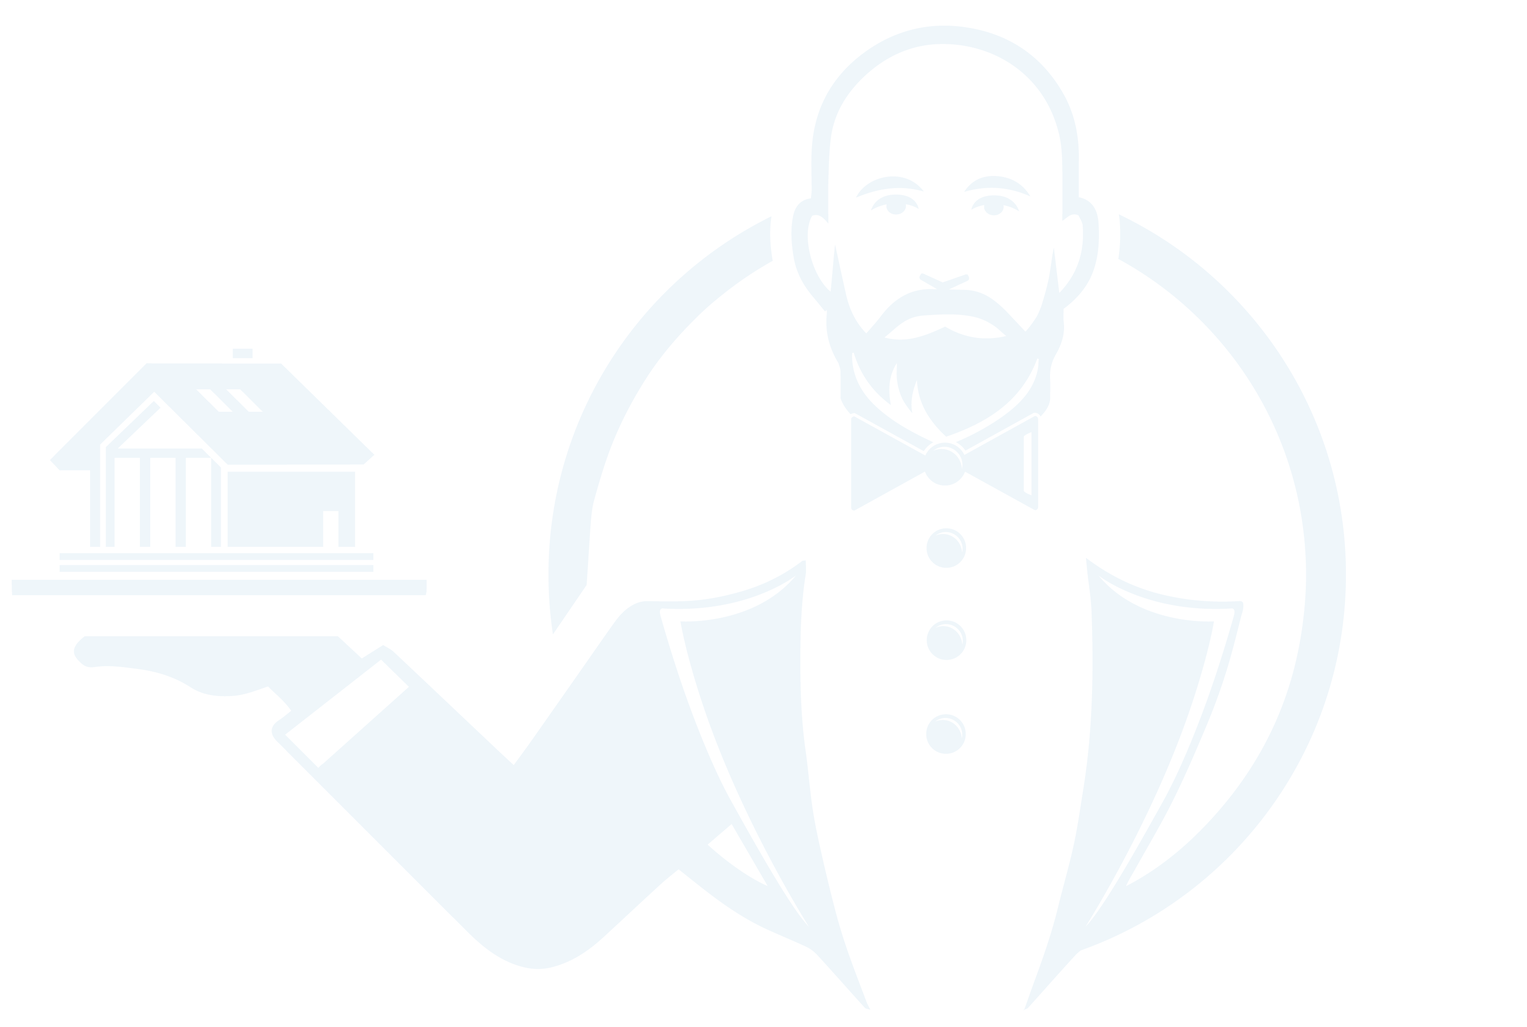
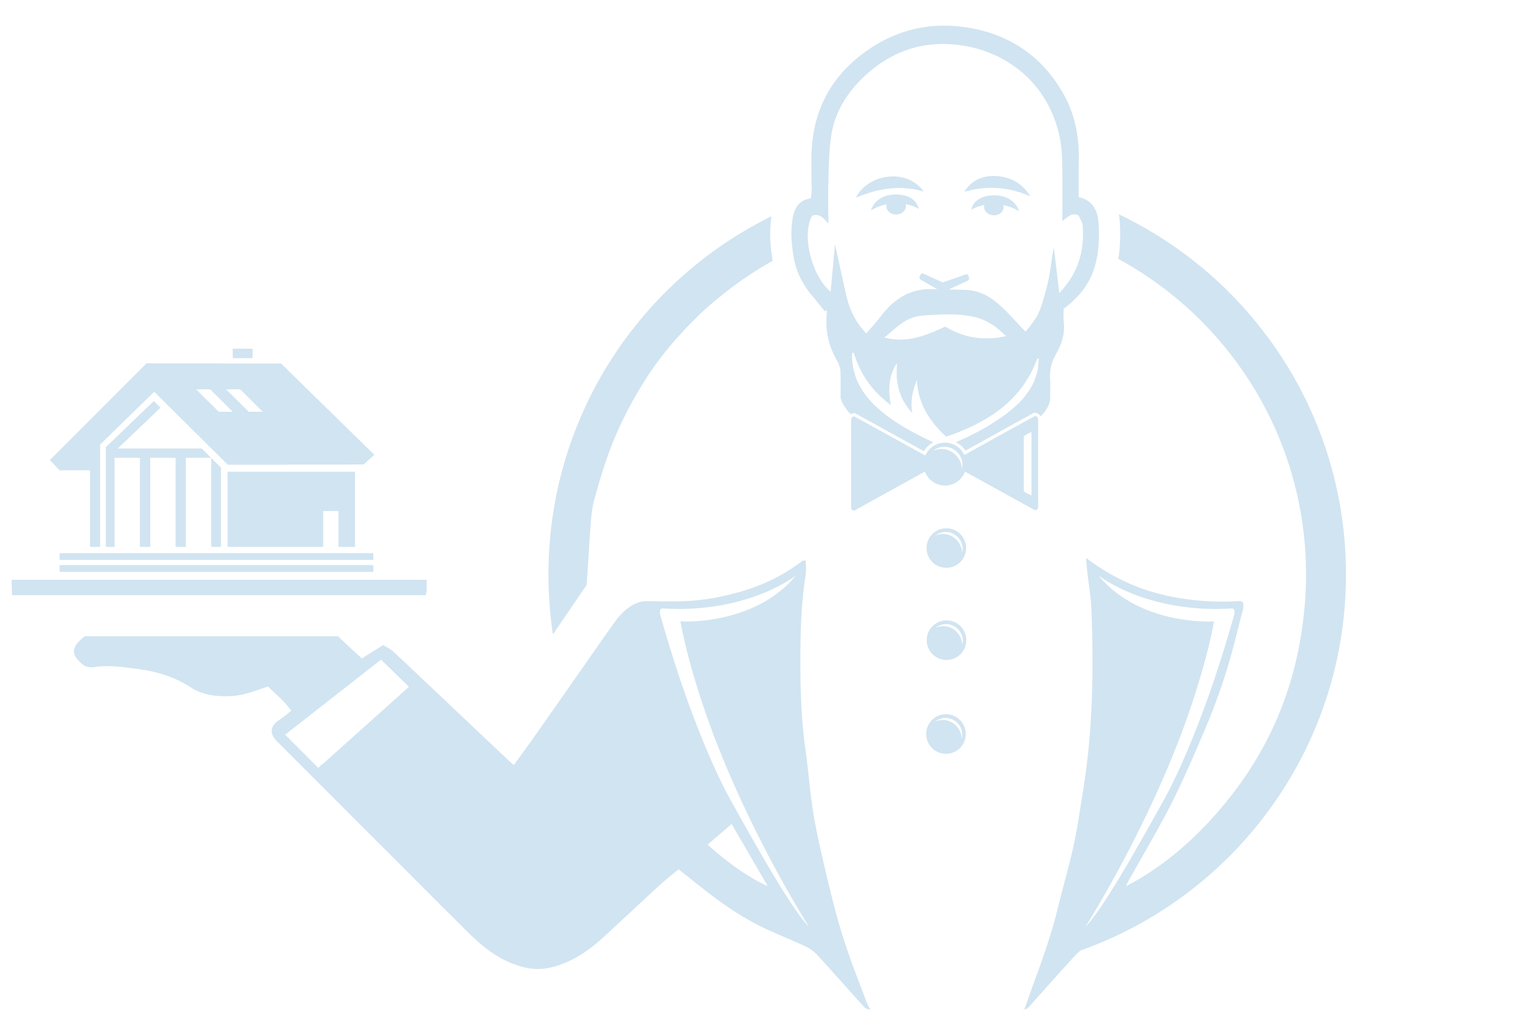
Fix nav wrap bug, redesign mascot watermark, add homepage engagement features
Bug fixes:
- Fix nav-links wrapping to two lines at common desktop widths: raise
  hamburger breakpoint 768px -> 1200px and tighten nav-links gap
  24px -> 12px so the wider wordmark logo no longer starves nav-links
  of space (root cause: nav-inner's fixed 1100px max-width left ~40px
  less room than the wordmark + full nav needed)
- Trim nav wordmark logo height 24px -> 21px for extra margin

Mascot watermark redesign:
- Replace the oversized, right-bleeding, homepage-only hero watermark
  with a small (170px), left-aligned watermark applied via a single
  shared CSS rule on .hero and .page-hero, so it now appears
  consistently on every page automatically
- Regenerate the watermark asset at 22% opacity (was 8%) since the
  much smaller footprint needed more presence to stay visible

Homepage engagement features:
- Animated stat counters (4+ Years Licensed, 5.0 Rating, 2 Markets)
  that count up on scroll into view
- Bouncing scroll-cue arrow at the base of the hero
- Rotating eyebrow line above the headline cycling through value props
- Subtle mouse-follow tilt on the hero photo (skipped on touch)
- Clickable "Choose Your Area" explorer (San Tan Valley / Florence)
  linking straight to their area pages, using the same verified price
  ranges and community names already published on areas.html

Lead popup tuning:
- Push back scroll-depth trigger 55% -> 75% and time-on-page fallback
  45s -> 90s so "Before You Go" waits longer before appearing;
[…]

diff --git a/index.html b/index.html
@@ -195,7 +195,7 @@ src="https://www.facebook.com/tr?id=613631230446097&ev=PageView&noscript=1"
 <nav class="nav" id="nav">
   <div class="nav-inner">
     <a href="index.html" class="nav-brand" style="display:flex;align-items:center;gap:12px;text-decoration:none;">
-      <img src="images/butler-wordmark-white.png" alt="The Butler Realty" style="height:24px;width:auto;">
+      <img src="images/butler-wordmark-white.png" alt="The Butler Realty" style="height:21px;width:auto;">
       <img src="images/exp-white-clean.png" alt="eXp Realty" style="height:28px;width:auto;opacity:0.9;">
     </a>
     <div class="hamburger" onclick="document.querySelector('.nav-links').classList.toggle('open')">
@@ -220,9 +220,9 @@ src="https://www.facebook.com/tr?id=613631230446097&ev=PageView&noscript=1"
 <main>
 
 <section class="hero">
-  <img src="images/butler-icon-watermark.png" alt="" aria-hidden="true" class="hero-mascot-watermark">
   <div class="hero-inner">
     <div class="hero-content">
+      <div class="hero-rotator" id="heroRotator">Zero Pressure.</div>
       <h1>Not Just Your Agent,<br><em>Your Advocate</em></h1>
       <p>San Tan Valley &amp; Florence REALTOR&reg; &mdash; I specialize in these markets because I know them cold. Honest guidance, zero pressure, straight answers. Your goals, your timeline, your call.</p>
       <div class="hero-btns">
@@ -234,10 +234,55 @@ src="https://www.facebook.com/tr?id=613631230446097&ev=PageView&noscript=1"
       <img src="images/brian-butler.jpg" alt="Brian Butler REALTOR - Arizona Real Estate Agent">
     </div>
   </div>
+  <button type="button" class="scroll-cue" id="scrollCue" aria-label="Scroll down">
+    <svg width="26" height="26" viewBox="0 0 24 24" fill="none" stroke="currentColor" stroke-width="2" stroke-linecap="round" stroke-linejoin="round"><path d="M6 9l6 6 6-6"/></svg>
+  </button>
 </section>
 
+<section class="stats-bar">
+  <div class="container">
+    <div class="stats-grid">
+      <div class="stat-item">
+        <div class="stat-number" data-target="4" data-suffix="+">0</div>
+        <div class="stat-label">Years Licensed in Arizona</div>
+      </div>
+      <div class="stat-item">
+        <div class="stat-number" data-target="5" data-decimal-target="5.0" data-suffix="&#9733;">0</div>
+        <div class="stat-label">Average Client Rating</div>
+      </div>
+      <div class="stat-item">
+        <div class="stat-number" data-target="2" data-suffix="">0</div>
+        <div class="stat-label">Markets Mastered</div>
+      </div>
+    </div>
+  </div>
+</section>
 
-<section class="section section-alt" style="padding:48px 0;">
+<section class="section section-alt">
+  <div class="container">
+    <div class="section-header">
+      <div class="section-label">Where I Work</div>
+      <h2 class="section-title">Choose Your Area</h2>
+      <p class="section-subtitle">Two markets, zero guesswork. Click the one you're interested in to see prices, communities, and what to expect.</p>
+    </div>
+    <div class="area-explorer">
+      <a href="areas/san-tan-valley.html" class="area-explorer-card">
+        <h3>San Tan Valley</h3>
+        <div class="area-explorer-tagline">"Space, Value, and Room to Grow"</div>
+        <div class="area-explorer-price">$300K&ndash;$450K+ &bull; Pecan Creek, Johnson Ranch</div>
+        <div class="area-explorer-cta">Explore San Tan Valley <svg width="16" height="16" viewBox="0 0 24 24" fill="none" stroke="currentColor" stroke-width="2" stroke-linecap="round" stroke-linejoin="round"><path d="M5 12h14M13 6l6 6-6 6"/></svg></div>
+      </a>
+      <a href="areas/florence.html" class="area-explorer-card">
+        <h3>Florence</h3>
+        <div class="area-explorer-tagline">"Maximum Space, Small-Town Arizona"</div>
+        <div class="area-explorer-price">$220K&ndash;$380K+ &bull; Residential &amp; land parcels</div>
+        <div class="area-explorer-cta">Explore Florence <svg width="16" height="16" viewBox="0 0 24 24" fill="none" stroke="currentColor" stroke-width="2" stroke-linecap="round" stroke-linejoin="round"><path d="M5 12h14M13 6l6 6-6 6"/></svg></div>
+      </a>
+    </div>
+  </div>
+</section>
+
+<section class="section" style="padding:48px 0;">
   <div class="container">
     <div class="section-header" style="margin-bottom:24px;">
       <div class="section-label">Start Your Search</div>
@@ -478,6 +523,81 @@ document.querySelectorAll('.nav-links a').forEach(a=>{if(a.getAttribute('href')=
   function next(){ goTo((current + 1) % slides.length); }
   function resetTimer(){ clearInterval(timer); timer = setInterval(next, 5500); }
   resetTimer();
+})();
+</script>
+
+<script>
+(function(){
+  /* ---- Hero rotator ---- */
+  var phrases = ['Zero Pressure.', 'Straight Answers.', 'Your Timeline.', 'Your Goals, Your Call.'];
+  var rotatorEl = document.getElementById('heroRotator');
+  if (rotatorEl) {
+    var idx = 0;
+    setInterval(function(){
+      rotatorEl.style.opacity = 0;
+      setTimeout(function(){
+        idx = (idx + 1) % phrases.length;
+        rotatorEl.textContent = phrases[idx];
+        rotatorEl.style.opacity = 1;
+      }, 300);
+    }, 2800);
+  }
+
+  /* ---- Scroll cue ---- */
+  var scrollCue = document.getElementById('scrollCue');
+  if (scrollCue) {
+    scrollCue.addEventListener('click', function(){
+      var statsBar = document.querySelector('.stats-bar');
+      if (statsBar) statsBar.scrollIntoView({ behavior: 'smooth' });
+    });
+  }
+
+  /* ---- Hero photo mouse-tilt (skip on touch devices) ---- */
+  var hero = document.querySelector('.hero');
+  var heroPhoto = document.querySelector('.hero-photo img');
+  if (hero && heroPhoto && !window.matchMedia('(pointer: coarse)').matches) {
+    hero.addEventListener('mousemove', function(e){
+      var rect = hero.getBoundingClientRect();
+      var x = (e.clientX - rect.left) / rect.width - 0.5;
+      var y = (e.clientY - rect.top) / rect.height - 0.5;
+      heroPhoto.style.transform = 'perspective(600px) rotateY(' + (x * 8).toFixed(2) + 'deg) rotateX(' + (-y * 8).toFixed(2) + 'deg)';
+    });
+    hero.addEventListener('mouseleave', function(){
+      heroPhoto.style.transform = 'perspective(600px) rotateY(0deg) rotateX(0deg)';
+    });
+  }
+
+  /* ---- Animated stat counters (run once, when scrolled into view) ---- */
+  var statEls = document.querySelectorAll('.stat-number');
+  if (statEls.length && 'IntersectionObserver' in window) {
+    var animateStat = function(el){
+      var target = parseFloat(el.getAttribute('data-target')) || 0;
+      var decimalTarget = el.getAttribute('data-decimal-target');
+      var suffix = el.getAttribute('data-suffix') || '';
+      var duration = 1200;
+      var start = null;
+      function step(ts){
+        if (!start) start = ts;
+        var progress = Math.min((ts - start) / duration, 1);
+        var eased = 1 - Math.pow(1 - progress, 3);
+        var current = decimalTarget
+          ? (eased * parseFloat(decimalTarget)).toFixed(1)
+          : Math.round(eased * target);
+        el.textContent = current + suffix;
+        if (progress < 1) requestAnimationFrame(step);
+      }
+      requestAnimationFrame(step);
+    };
+    var statObserver = new IntersectionObserver(function(entries){
+      entries.forEach(function(entry){
+        if (entry.isIntersecting) {
+          animateStat(entry.target);
+          statObserver.unobserve(entry.target);
+        }
+      });
+    }, { threshold: 0.5 });
+    statEls.forEach(function(el){ statObserver.observe(el); });
+  }
 })();
 </script>
 

diff --git a/styles.css b/styles.css
@@ -31,14 +31,14 @@ img{max-width:100%;height:auto;}
 .nav-inner{max-width:1100px;margin:0 auto;padding:0 28px;display:flex;align-items:center;justify-content:space-between;height:64px;}
 .nav-brand{font-family:var(--font-display);font-size:1.15rem;font-weight:700;color:var(--white);letter-spacing:0.01em;}
 .nav-brand span{color:var(--accent-light);font-weight:400;font-size:0.8rem;display:block;margin-top:-2px;}
-.nav-links{display:flex;gap:24px;align-items:center;list-style:none;}
+.nav-links{display:flex;gap:12px;align-items:center;list-style:none;}
 .nav-links a{color:rgba(255,255,255,0.8);font-size:0.85rem;font-weight:500;transition:color .2s;text-decoration:none;}
 .nav-links a:hover,.nav-links a.active{color:var(--white);}
 .nav-cta{background:var(--accent);color:var(--white)!important;padding:8px 18px;border-radius:8px;font-weight:600;font-size:0.82rem!important;}
 .nav-cta:hover{background:var(--accent-light);}
 .hamburger{display:none;flex-direction:column;gap:5px;cursor:pointer;padding:4px;}
 .hamburger span{width:24px;height:2px;background:var(--white);transition:all .3s;}
-@media(max-width:768px){
+@media(max-width:1200px){
   .nav-links{display:none;position:absolute;top:64px;left:0;right:0;background:var(--primary);flex-direction:column;padding:20px 28px;gap:16px;border-bottom:2px solid var(--accent);}
   .nav-links.open{display:flex;}
   .hamburger{display:flex;}
@@ -47,8 +47,6 @@ img{max-width:100%;height:auto;}
 /* HERO */
 .hero{position:relative;min-height:85vh;display:flex;align-items:center;overflow:hidden;background:linear-gradient(135deg,var(--primary) 0%,var(--primary-dark) 40%,#0d2f45 100%);padding-top:64px;}
 .hero::before{content:'';position:absolute;inset:0;background:radial-gradient(ellipse at 20% 50%,rgba(46,134,193,0.2) 0%,transparent 60%),radial-gradient(ellipse at 80% 20%,rgba(93,173,226,0.1) 0%,transparent 50%);}
-.hero-mascot-watermark{position:absolute;right:-60px;top:-30px;height:900px;max-width:none;width:auto;z-index:1;pointer-events:none;}
-@media(max-width:768px){.hero-mascot-watermark{display:none;}}
 .hero-inner{position:relative;z-index:2;width:100%;max-width:1100px;margin:0 auto;padding:80px 28px 60px;display:grid;grid-template-columns:1.2fr 0.8fr;gap:60px;align-items:center;}
 .hero-content h1{font-family:var(--font-display);font-size:clamp(2.2rem,4vw,3.2rem);font-weight:700;color:var(--white);line-height:1.15;margin-bottom:16px;}
 .hero-content h1 em{font-style:italic;color:var(--accent-light);}
@@ -148,9 +146,13 @@ img{max-width:100%;height:auto;}
 @media(max-width:768px){.footer-inner{grid-template-columns:1fr;gap:28px;text-align:center;}}
 
 /* PAGE HERO (internal pages) */
-.page-hero{background:var(--primary);padding:120px 0 60px;text-align:center;}
-.page-hero h1{font-family:var(--font-display);font-size:clamp(1.8rem,3.5vw,2.6rem);color:var(--white);margin-bottom:10px;}
-.page-hero p{font-size:1.05rem;color:rgba(255,255,255,0.7);max-width:600px;margin:0 auto;}
+.page-hero{position:relative;overflow:hidden;background:var(--primary);padding:120px 0 60px;text-align:center;}
+.page-hero h1{position:relative;z-index:1;font-family:var(--font-display);font-size:clamp(1.8rem,3.5vw,2.6rem);color:var(--white);margin-bottom:10px;}
+.page-hero p{position:relative;z-index:1;font-size:1.05rem;color:rgba(255,255,255,0.7);max-width:600px;margin:0 auto;}
+
+/* MASCOT WATERMARK -- small, consistent, left-aligned on every hero/page-hero */
+.hero::after,.page-hero::after{content:'';position:absolute;left:-20px;top:50%;transform:translateY(-50%);width:170px;height:170px;background-image:url('/images/butler-icon-watermark.png');background-size:contain;background-repeat:no-repeat;background-position:left center;z-index:0;pointer-events:none;}
+@media(max-width:640px){.hero::after,.page-hero::after{width:110px;height:110px;}}
 
 /* CHECKLIST */
 .check-list{list-style:none;}
@@ -216,3 +218,35 @@ img{max-width:100%;height:auto;}
 .download-card,.area-card,.review-card{transition:transform .25s ease,box-shadow .25s ease;}
 .download-card:hover{transform:translateY(-4px);box-shadow:0 10px 28px rgba(0,0,0,0.1);}
 .review-card:hover{transform:translateY(-3px);box-shadow:0 10px 28px rgba(0,0,0,0.1);}
+
+/* ==================== HOMEPAGE: HERO ROTATOR ==================== */
+.hero-rotator{font-size:0.9rem;font-weight:700;color:var(--accent-light);text-transform:uppercase;letter-spacing:0.09em;margin-bottom:10px;min-height:1.3em;opacity:1;transition:opacity .3s ease;}
+
+/* ==================== HOMEPAGE: HERO PHOTO TILT ==================== */
+.hero-photo img{transition:transform .15s ease-out;}
+
+/* ==================== HOMEPAGE: SCROLL CUE ==================== */
+.scroll-cue{position:absolute;bottom:22px;left:50%;transform:translateX(-50%);z-index:2;color:rgba(255,255,255,0.55);cursor:pointer;background:none;border:none;padding:8px;animation:scrollBounce 2s ease-in-out infinite;transition:color .2s;}
+.scroll-cue:hover{color:rgba(255,255,255,0.9);}
+@keyframes scrollBounce{0%,100%{transform:translateX(-50%) translateY(0);}50%{transform:translateX(-50%) translateY(8px);}}
+@media(max-width:768px){.scroll-cue{display:none;}}
+
+/* ==================== HOMEPAGE: STAT COUNTERS ==================== */
+.stats-bar{background:var(--primary-dark);padding:40px 0;}
+.stats-grid{display:flex;justify-content:center;gap:80px;flex-wrap:wrap;}
+.stat-item{text-align:center;}
+.stat-number{font-family:var(--font-display);font-size:clamp(2rem,4vw,2.8rem);font-weight:700;color:var(--white);}
+.stat-label{font-size:0.8rem;color:rgba(255,255,255,0.65);text-transform:uppercase;letter-spacing:0.07em;margin-top:6px;}
+@media(max-width:600px){.stats-grid{gap:40px;}}
+
+/* ==================== HOMEPAGE: AREA EXPLORER ==================== */
+.area-explorer{display:grid;grid-template-columns:1fr 1fr;gap:24px;}
+@media(max-width:768px){.area-explorer{grid-template-columns:1fr;}}
+.area-explorer-card{position:relative;display:block;text-decoration:none;background:var(--primary);border-radius:16px;padding:40px 32px;overflow:hidden;transition:transform .25s ease,box-shadow .25s ease;min-height:200px;}
+.area-explorer-card:hover{transform:translateY(-6px);box-shadow:0 16px 40px rgba(0,0,0,0.18);}
+.area-explorer-card h3{font-family:var(--font-display);font-size:1.6rem;color:var(--white);margin-bottom:8px;}
+.area-explorer-card .area-explorer-tagline{color:var(--accent-light);font-size:0.9rem;font-style:italic;margin-bottom:16px;}
+.area-explorer-card .area-explorer-price{color:rgba(255,255,255,0.75);font-size:0.85rem;margin-bottom:22px;}
+.area-explorer-card .area-explorer-cta{color:var(--white);font-weight:700;font-size:0.9rem;display:inline-flex;align-items:center;gap:6px;}
+.area-explorer-card .area-explorer-cta svg{transition:transform .2s;}
+.area-explorer-card:hover .area-explorer-cta svg{transform:translateX(4px);}

diff --git a/js/site-enhancements.js b/js/site-enhancements.js
@@ -159,20 +159,20 @@
       if (!e.relatedTarget && e.clientY < 8) fireOnce('exit-intent')();
     });
 
-    // All devices: scroll depth past ~55%
+    // All devices: scroll depth past ~75%
     window.addEventListener(
       'scroll',
       function () {
         var docHeight = document.body.scrollHeight - window.innerHeight;
         if (docHeight <= 0) return;
         var pct = (window.scrollY / docHeight) * 100;
-        if (pct > 55) fireOnce('scroll-depth')();
+        if (pct > 75) fireOnce('scroll-depth')();
       },
       { passive: true }
     );
 
     // Fallback: time on page
-    setTimeout(fireOnce('time-on-page'), 45000);
+    setTimeout(fireOnce('time-on-page'), 90000);
   }
 
   /* ==================== GATED RESOURCE DOWNLOADS ====================

diff --git a/community-news/san-tan-valley/18-acre-arizona-farms-road-site-sells-2-7-million.html b/community-news/san-tan-valley/18-acre-arizona-farms-road-site-sells-2-7-million.html
@@ -115,7 +115,7 @@ src="https://www.facebook.com/tr?id=613631230446097&ev=PageView&noscript=1"
 <nav class="nav" id="nav">
   <div class="nav-inner">
     <a href="../../index.html" class="nav-brand" style="display:flex;align-items:center;gap:12px;text-decoration:none;">
-      <img src="../../images/butler-wordmark-white.png" alt="The Butler Realty" style="height:24px;width:auto;">
+      <img src="../../images/butler-wordmark-white.png" alt="The Butler Realty" style="height:21px;width:auto;">
       <img src="../../images/exp-white-clean.png" alt="eXp Realty" style="height:28px;width:auto;opacity:0.9;">
     </a>
     <div class="hamburger" onclick="document.querySelector('.nav-links').classList.toggle('open')">

diff --git a/community-news/san-tan-valley/cac-expands-nursing-program-san-tan-valley-campus.html b/community-news/san-tan-valley/cac-expands-nursing-program-san-tan-valley-campus.html
@@ -115,7 +115,7 @@ src="https://www.facebook.com/tr?id=613631230446097&ev=PageView&noscript=1"
 <nav class="nav" id="nav">
   <div class="nav-inner">
     <a href="../../index.html" class="nav-brand" style="display:flex;align-items:center;gap:12px;text-decoration:none;">
-      <img src="../../images/butler-wordmark-white.png" alt="The Butler Realty" style="height:24px;width:auto;">
+      <img src="../../images/butler-wordmark-white.png" alt="The Butler Realty" style="height:21px;width:auto;">
       <img src="../../images/exp-white-clean.png" alt="eXp Realty" style="height:28px;width:auto;opacity:0.9;">
     </a>
     <div class="hamburger" onclick="document.querySelector('.nav-links').classList.toggle('open')">

diff --git a/community-news/san-tan-valley/gantzel-road-annexation-hearing.html b/community-news/san-tan-valley/gantzel-road-annexation-hearing.html
@@ -115,7 +115,7 @@ src="https://www.facebook.com/tr?id=613631230446097&ev=PageView&noscript=1"
 <nav class="nav" id="nav">
   <div class="nav-inner">
     <a href="../../index.html" class="nav-brand" style="display:flex;align-items:center;gap:12px;text-decoration:none;">
-      <img src="../../images/butler-wordmark-white.png" alt="The Butler Realty" style="height:24px;width:auto;">
+      <img src="../../images/butler-wordmark-white.png" alt="The Butler Realty" style="height:21px;width:auto;">
       <img src="../../images/exp-white-clean.png" alt="eXp Realty" style="height:28px;width:auto;opacity:0.9;">
     </a>
     <div class="hamburger" onclick="document.querySelector('.nav-links').classList.toggle('open')">

diff --git a/community-news/san-tan-valley/ironwood-and-ranch-mixed-use-project.html b/community-news/san-tan-valley/ironwood-and-ranch-mixed-use-project.html
@@ -115,7 +115,7 @@ src="https://www.facebook.com/tr?id=613631230446097&ev=PageView&noscript=1"
 <nav class="nav" id="nav">
   <div class="nav-inner">
     <a href="../../index.html" class="nav-brand" style="display:flex;align-items:center;gap:12px;text-decoration:none;">
-      <img src="../../images/butler-wordmark-white.png" alt="The Butler Realty" style="height:24px;width:auto;">
+      <img src="../../images/butler-wordmark-white.png" alt="The Butler Realty" style="height:21px;width:auto;">
       <img src="../../images/exp-white-clean.png" alt="eXp Realty" style="height:28px;width:auto;opacity:0.9;">
     </a>
     <div class="hamburger" onclick="document.querySelector('.nav-links').classList.toggle('open')">

diff --git a/community-news/san-tan-valley/july-15-town-council-recap.html b/community-news/san-tan-valley/july-15-town-council-recap.html
@@ -115,7 +115,7 @@ src="https://www.facebook.com/tr?id=613631230446097&ev=PageView&noscript=1"
 <nav class="nav" id="nav">
   <div class="nav-inner">
     <a href="../../index.html" class="nav-brand" style="display:flex;align-items:center;gap:12px;text-decoration:none;">
-      <img src="../../images/butler-wordmark-white.png" alt="The Butler Realty" style="height:24px;width:auto;">
+      <img src="../../images/butler-wordmark-white.png" alt="The Butler Realty" style="height:21px;width:auto;">
       <img src="../../images/exp-white-clean.png" alt="eXp Realty" style="height:28px;width:auto;opacity:0.9;">
     </a>
     <div class="hamburger" onclick="document.querySelector('.nav-links').classList.toggle('open')">

diff --git a/community-news/san-tan-valley/san-tan-valley-incorporation.html b/community-news/san-tan-valley/san-tan-valley-incorporation.html
@@ -115,7 +115,7 @@ src="https://www.facebook.com/tr?id=613631230446097&ev=PageView&noscript=1"
 <nav class="nav" id="nav">
   <div class="nav-inner">
     <a href="../../index.html" class="nav-brand" style="display:flex;align-items:center;gap:12px;text-decoration:none;">
-      <img src="../../images/butler-wordmark-white.png" alt="The Butler Realty" style="height:24px;width:auto;">
+      <img src="../../images/butler-wordmark-white.png" alt="The Butler Realty" style="height:21px;width:auto;">
       <img src="../../images/exp-white-clean.png" alt="eXp Realty" style="height:28px;width:auto;opacity:0.9;">
     </a>
     <div class="hamburger" onclick="document.querySelector('.nav-links').classList.toggle('open')">

diff --git a/community-news/san-tan-valley/san-tan-valley-pinal-county-economic-development.html b/community-news/san-tan-valley/san-tan-valley-pinal-county-economic-development.html
@@ -115,7 +115,7 @@ src="https://www.facebook.com/tr?id=613631230446097&ev=PageView&noscript=1"
 <nav class="nav" id="nav">
   <div class="nav-inner">
     <a href="../../index.html" class="nav-brand" style="display:flex;align-items:center;gap:12px;text-decoration:none;">
-      <img src="../../images/butler-wordmark-white.png" alt="The Butler Realty" style="height:24px;width:auto;">
+      <img src="../../images/butler-wordmark-white.png" alt="The Butler Realty" style="height:21px;width:auto;">
       <img src="../../images/exp-white-clean.png" alt="eXp Realty" style="height:28px;width:auto;opacity:0.9;">
     </a>
     <div class="hamburger" onclick="document.querySelector('.nav-links').classList.toggle('open')">

diff --git a/community-news/san-tan-valley/town-council-sets-future-leader-pay-impact-fees.html b/community-news/san-tan-valley/town-council-sets-future-leader-pay-impact-fees.html
@@ -115,7 +115,7 @@ src="https://www.facebook.com/tr?id=613631230446097&ev=PageView&noscript=1"
 <nav class="nav" id="nav">
   <div class="nav-inner">
     <a href="../../index.html" class="nav-brand" style="display:flex;align-items:center;gap:12px;text-decoration:none;">
-      <img src="../../images/butler-wordmark-white.png" alt="The Butler Realty" style="height:24px;width:auto;">
+      <img src="../../images/butler-wordmark-white.png" alt="The Butler Realty" style="height:21px;width:auto;">
       <img src="../../images/exp-white-clean.png" alt="eXp Realty" style="height:28px;width:auto;opacity:0.9;">
     </a>
     <div class="hamburger" onclick="document.querySelector('.nav-links').classList.toggle('open')">

diff --git a/areas/florence.html b/areas/florence.html
@@ -198,7 +198,7 @@ src="https://www.facebook.com/tr?id=613631230446097&ev=PageView&noscript=1"
 <nav class="nav" id="nav">
   <div class="nav-inner">
     <a href="../index.html" class="nav-brand" style="display:flex;align-items:center;gap:12px;text-decoration:none;">
-      <img src="../images/butler-wordmark-white.png" alt="The Butler Realty" style="height:24px;width:auto;">
+      <img src="../images/butler-wordmark-white.png" alt="The Butler Realty" style="height:21px;width:auto;">
       <img src="../images/exp-white-clean.png" alt="eXp Realty" style="height:28px;width:auto;opacity:0.9;">
     </a>
     <div class="hamburger" onclick="document.querySelector('.nav-links').classList.toggle('open')">
